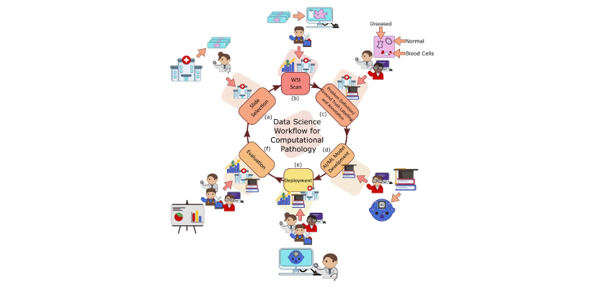
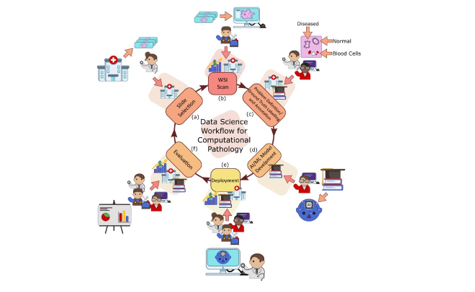
New image and BG

Changed region(s): [[0.2063, 0.0308, 0.7663, 0.9555]]

diff --git a/publications/copath.html b/publications/copath.html
@@ -13,6 +13,7 @@
     <link href="assets/vendor/owl.carousel/assets/owl.carousel.min.css" rel="stylesheet">
     <link href="assets/vendor/boxicons/css/boxicons.min.css" rel="stylesheet">
     <link href="assets/vendor/venobox/venobox.css" rel="stylesheet">
+    <link href="assets/vendor/venobox/venobox.js" rel="stylesheet">
   
   
     <!-- Template Main CSS File -->
